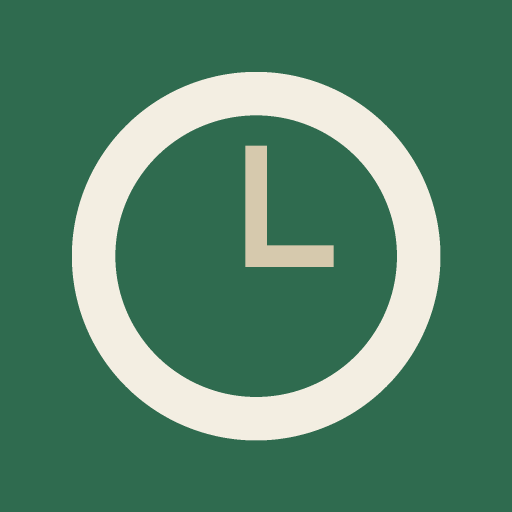
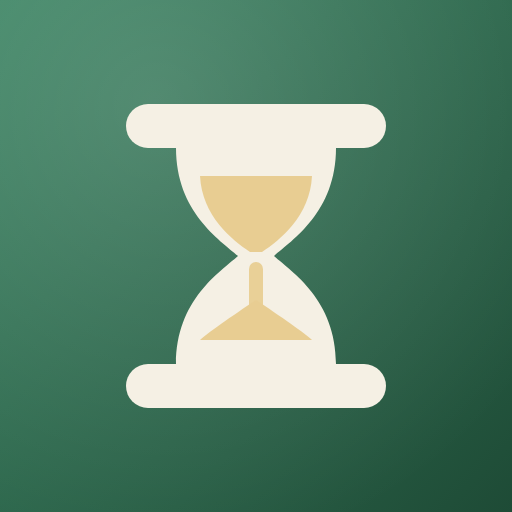
Kum saati logosu ve iOS ikon boyutları
- Yeni logo: yeşil degrade zemin üzerinde bej kum saati, kum vurguları
  sıcak sarı. Kaynak çizim icon.svg, PNG'ler ondan üretildi.
- iOS ana ekran ikonu 180x180 apple-touch-icon olarak eklendi (167 ve 152
  iPad boyutlarıyla birlikte). Önceki 192'lik ikon iOS tarafından
  alınmadığı için ana ekranda harf kutucuğu çıkıyordu.
- manifest: 192/512 any, 512 maskable ve ölçeklenebilir SVG.
- Uygulama başlığındaki daire, aynı kum saati işaretiyle değiştirildi.
- Service worker sürümü v2'ye çekildi ki kurulu cihazlar yeni ikonları alsın.

Claude-Session: https://claude.ai/code/session_01J6erqtBzjJypiewhvHFme2

diff --git a/zamanlayici.html b/zamanlayici.html
@@ -8,8 +8,12 @@
 <meta name="apple-mobile-web-app-status-bar-style" content="default">
 <meta name="apple-mobile-web-app-title" content="YDUS Saat">
 <link rel="manifest" href="./manifest.webmanifest">
-<link rel="apple-touch-icon" href="./icon-192.png">
-<link rel="icon" href="./icon-192.png">
+<link rel="apple-touch-icon" sizes="180x180" href="apple-touch-icon.png">
+<link rel="apple-touch-icon" sizes="167x167" href="apple-touch-icon-167.png">
+<link rel="apple-touch-icon" sizes="152x152" href="apple-touch-icon-152.png">
+<link rel="icon" type="image/svg+xml" href="icon.svg">
+<link rel="icon" type="image/png" sizes="192x192" href="icon-192.png">
+<link rel="icon" type="image/png" sizes="64x64" href="favicon-64.png">
 <title>YDUS Çalışma Zamanlayıcı</title>
 <style>
 :root{
@@ -44,7 +48,8 @@ header{
 }
 .head-in{display:flex;align-items:center;gap:10px;justify-content:space-between}
 .brand{display:flex;align-items:center;gap:8px;font-weight:800;font-size:1rem;color:var(--green)}
-.brand .dot{width:22px;height:22px;border-radius:50%;border:3px solid var(--green);flex-shrink:0}
+.brand .mark{width:23px;height:23px;flex-shrink:0;fill:var(--green)}
+.brand .mark .sand{fill:var(--sand)}
 .head-right{display:flex;align-items:center;gap:8px}
 .streak{
   display:flex;align-items:center;gap:5px;font-size:.75rem;font-weight:700;
@@ -205,7 +210,15 @@ nav.tabs button.on{color:var(--green)}
 <body>
 <header>
   <div class="wrap head-in">
-    <div class="brand"><span class="dot"></span> YDUS Saat</div>
+    <div class="brand">
+      <svg class="mark" viewBox="0 0 512 512" aria-hidden="true">
+        <rect x="126" y="104" width="260" height="44" rx="22"/>
+        <rect x="126" y="364" width="260" height="44" rx="22"/>
+        <path d="M 176 148 L 336 148 C 336 212 292 240 274 256 C 292 272 336 300 336 364 L 176 364 C 176 300 220 272 238 256 C 220 240 176 212 176 148 Z"/>
+        <path class="sand" d="M 200 176 L 312 176 C 310 216 280 240 262 252 L 250 252 C 232 240 202 216 200 176 Z"/>
+        <rect class="sand" x="249" y="262" width="14" height="52" rx="7"/>
+        <path class="sand" d="M 256 300 C 280 316 306 334 312 340 L 200 340 C 206 334 232 316 256 300 Z"/>
+      </svg> YDUS Saat</div>
     <div class="head-right">
       <span class="streak" id="streakBadge" title="Üst üste çalışılan gün">🔥 <span id="streakVal">0</span> gün</span>
       <button class="icon-btn" id="themeBtn" title="Tema değiştir">🌙</button>

diff --git a/sw.js b/sw.js
@@ -1,10 +1,13 @@
-const CACHE = 'ydus-timer-v1';
+const CACHE = 'ydus-timer-v2';
 const ASSETS = [
   './zamanlayici.html',
   './manifest.webmanifest',
+  './icon.svg',
   './icon-192.png',
   './icon-512.png',
-  './icon-maskable-512.png'
+  './icon-maskable-512.png',
+  './apple-touch-icon.png',
+  './favicon-64.png'
 ];
 
 self.addEventListener('install', e => {

diff --git a/README.md b/README.md
@@ -38,6 +38,11 @@ En kolay yol GitHub Pages:
 3. **Android / Chrome**: menü → "Uygulamayı yükle" veya "Ana ekrana ekle".
    **iPhone / Safari**: paylaş simgesi → "Ana Ekrana Ekle".
 
+Ana ekran ikonu yeşil zemin üzerinde bej bir kum saatidir; kaynak çizim `icon.svg`
+dosyasında, PNG boyutları ondan üretilmiştir (iOS için 180/167/152, Android için 192/512
+ve maskable 512). iOS ikonu bir kez önbelleğe alır: ikon değişirse ana ekrandaki kısayolu
+silip yeniden eklemek gerekir.
+
 Kurulumdan sonra uygulama tam ekran açılır ve internet olmadan da çalışır.
 
 ## Notlar
